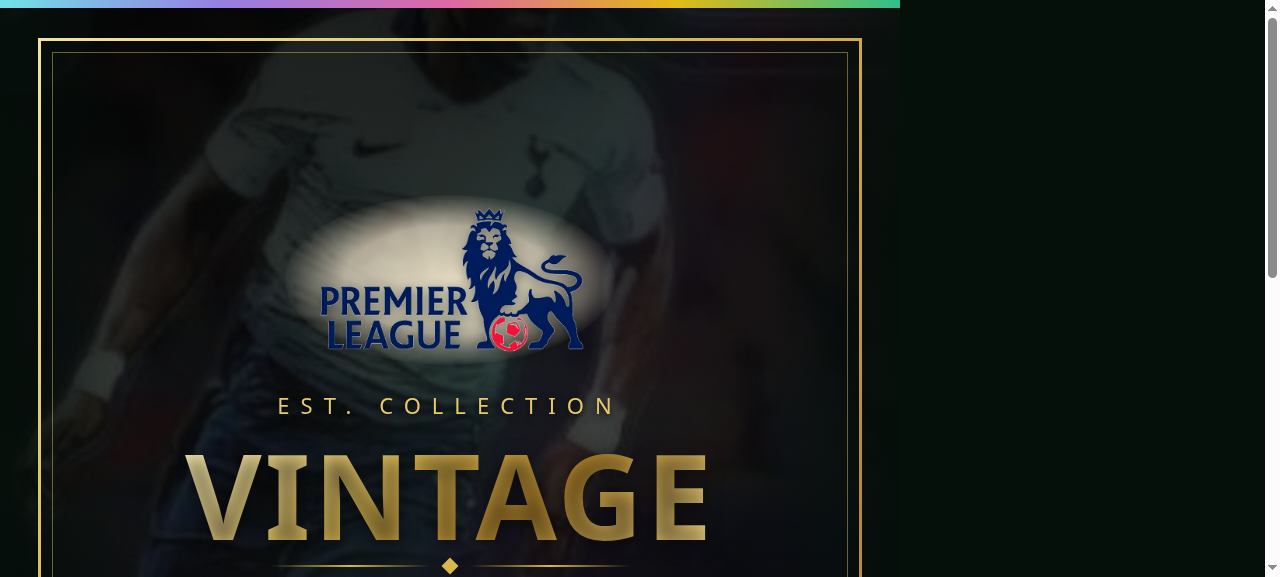
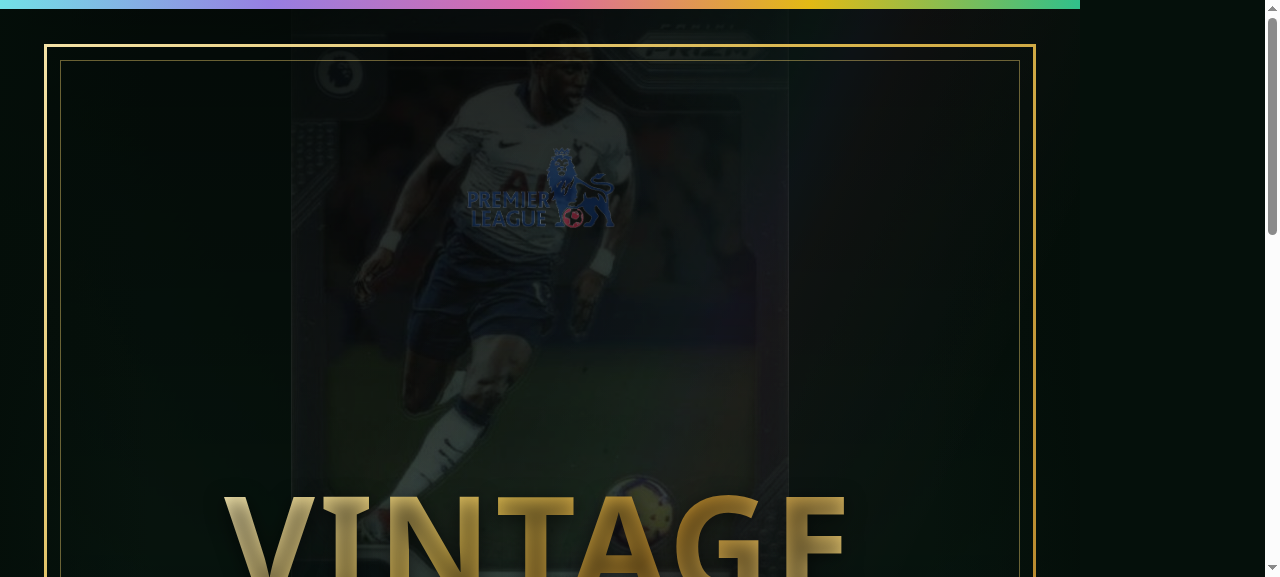
Redesign 3:4: smaller Sissoko/EPL, display all 3 cards, remove EST label

diff --git a/thumbnail.html b/thumbnail.html
@@ -7,125 +7,162 @@
   html,body { background:#05100b; }
   #card {
     position:relative;
-    width:900px; height:1200px;
+    width:1080px; height:1440px;   /* exact 3:4 portrait */
     overflow:hidden;
     font-family:'Helvetica Neue',Arial,sans-serif;
     background:#0a1c14;
   }
 
-  /* ===== BACKGROUND: Sissoko Prizm blended in (kept — user liked it) ===== */
+  /* ===== BACKGROUND CARD PHOTOS (all three, blended) ===== */
   .bg { position:absolute; inset:0; background-size:cover; background-position:center; }
+
+  /* Sissoko Prizm — smaller, upper-center, feathered into bg */
   .bg-prizm {
     background-image:url('s-l1600.jpg');
-    background-position:center 18%;
-    filter:grayscale(12%) contrast(1.05) brightness(0.6) saturate(1.1);
-    transform:scale(1.3);
+    background-position:center top;
+    background-size:auto 48%;            /* smaller player */
+    background-repeat:no-repeat;
+    filter:grayscale(14%) contrast(1.05) brightness(0.62) saturate(1.05);
+    -webkit-mask-image: radial-gradient(52% 40% at 50% 22%, #000 0%, #000 40%, transparent 74%);
+            mask-image: radial-gradient(52% 40% at 50% 22%, #000 0%, #000 40%, transparent 74%);
+    opacity:0.85;
   }
-  /* vintage match scene faded at the very bottom for texture */
+  /* faint vintage MATCH scene texture across the whole bg (very subtle) */
   .bg-match {
     background-image:url('1656900916111.jpg');
     background-position:38% 48%;
-    background-size:190%;
-    filter:sepia(0.92) contrast(1.15) brightness(0.95);
-    -webkit-mask-image: radial-gradient(120% 60% at 50% 100%, #000 0%, #000 22%, transparent 58%);
-            mask-image: radial-gradient(120% 60% at 50% 100%, #000 0%, #000 22%, transparent 58%);
-    opacity:0.5; mix-blend-mode:luminosity;
+    background-size:130%;
+    background-repeat:no-repeat;
+    filter:sepia(0.9) contrast(1.1) brightness(0.9);
+    -webkit-mask-image: radial-gradient(120% 50% at 50% 100%, #000 0%, #000 20%, transparent 55%);
+            mask-image: radial-gradient(120% 50% at 50% 100%, #000 0%, #000 20%, transparent 55%);
+    opacity:0.28; mix-blend-mode:luminosity;
   }
+  .bg-portrait { display:none; }
+
+  /* ===== displayed vintage cards (crisp, like a collection) ===== */
+  .vcards { position:absolute; left:0; right:0; bottom:300px; display:flex; justify-content:center; align-items:center; pointer-events:none; }
+  .vcard { border:4px solid #efe3c6; border-radius:4px;
+    box-shadow:0 12px 32px rgba(0,0,0,0.75), 0 0 0 1px #9c7326;
+    filter:sepia(0.3) contrast(1.06) brightness(1.05);
+    background-repeat:no-repeat; }
+  /* MATCH slab 1755x1080: crop the dark card (x 29%..78%, y 22%..76%) */
+  .vcard.match {
+    width:300px; height:196px; transform:rotate(-5deg) translateX(36px); z-index:1;
+    background-image:url('1656900916111.jpg');
+    background-size:204% auto;
+    background-position:44% 40%;
+  }
+  /* PORTRAIT slab 1080x1713: crop the dark card (x 22%..78%, y 30%..78%) */
+  .vcard.portrait {
+    width:158px; height:250px; transform:rotate(5deg) translateX(-36px); z-index:2;
+    background-image:url('1656900919275.jpg');
+    background-size:178% auto;
+    background-position:50% 47%;
+  }
+  .vcards::after { content:""; position:absolute; inset:-30px;
+    background:radial-gradient(60% 90% at 50% 50%, rgba(217,182,78,0.16), transparent 70%); z-index:0; }
 
   /* ===== TONE OVERLAYS ===== */
   .tone-green { position:absolute; inset:0;
     background:
-      radial-gradient(90% 70% at 50% 32%, rgba(20,70,50,0.5), transparent 70%),
-      linear-gradient(180deg, rgba(6,20,14,0.5) 0%, rgba(6,20,14,0.25) 40%, rgba(4,14,9,0.88) 100%);
+      radial-gradient(90% 55% at 50% 30%, rgba(20,70,50,0.45), transparent 68%),
+      linear-gradient(180deg, rgba(6,20,14,0.45) 0%, rgba(6,20,14,0.2) 42%, rgba(4,14,9,0.55) 100%);
     mix-blend-mode:multiply; }
   .tone-dark { position:absolute; inset:0;
     background:
-      linear-gradient(90deg, rgba(4,14,9,0.9) 0%, rgba(4,14,9,0) 15%, rgba(4,14,9,0) 85%, rgba(4,14,9,0.9) 100%),
-      linear-gradient(180deg, rgba(0,0,0,0.5), rgba(0,0,0,0.12) 32%, rgba(0,0,0,0.62) 100%); }
+      linear-gradient(90deg, rgba(4,14,9,0.9) 0%, rgba(4,14,9,0) 14%, rgba(4,14,9,0) 86%, rgba(4,14,9,0.9) 100%),
+      linear-gradient(180deg, rgba(0,0,0,0.4), rgba(0,0,0,0.05) 34%, rgba(0,0,0,0.35) 100%); }
   .prizm-streak { position:absolute; inset:0;
-    background:linear-gradient(115deg, transparent 32%, rgba(126,249,255,0.09) 46%, rgba(167,139,250,0.11) 50%, rgba(244,114,182,0.09) 54%, transparent 68%);
-    mix-blend-mode:screen; opacity:0.55; }
-  .top-bar { position:absolute; top:0; left:0; right:0; height:8px;
+    background:linear-gradient(115deg, transparent 33%, rgba(126,249,255,0.08) 47%, rgba(167,139,250,0.1) 50%, rgba(244,114,182,0.08) 53%, transparent 67%);
+    mix-blend-mode:screen; opacity:0.5; }
+  .top-bar { position:absolute; top:0; left:0; right:0; height:9px;
     background:linear-gradient(90deg,#7ef9ff,#a78bfa,#f472b6,#facc15,#34d399); opacity:0.9; }
 
   /* ===== GOLD FRAME ===== */
-  .frame { position:absolute; inset:38px; border:3px solid;
+  .frame { position:absolute; inset:44px; border:3px solid;
     border-image:linear-gradient(135deg,#f4e2a6,#d9b64e,#b8892e,#e7c96b) 1; pointer-events:none; }
-  .frame-inner { position:absolute; inset:52px; border:1px solid rgba(231,201,107,0.45); pointer-events:none; }
+  .frame-inner { position:absolute; inset:60px; border:1px solid rgba(231,201,107,0.45); pointer-events:none; }
 
   /* ===== CONTENT ===== */
-  .content { position:absolute; inset:0; display:flex; flex-direction:column; align-items:center; justify-content:center; }
+  .content { position:absolute; inset:0; display:flex; flex-direction:column; align-items:center;
+    justify-content:space-between; padding:140px 0 130px; }
 
-  /* real EPL logo (transparent PNG) on a soft light disc so navy reads crisply */
-  .epl-wrap { width:340px; height:180px; display:flex; align-items:center; justify-content:center; position:relative; }
-  .epl-wrap::before { content:""; position:absolute; width:330px; height:170px;
-    background:radial-gradient(ellipse at center, rgba(244,233,207,0.92), rgba(244,233,207,0.7) 45%, transparent 72%);
-    border-radius:50%; }
-  .epl-wrap img { max-width:94%; max-height:94%; position:relative;
-    filter:contrast(1.08) drop-shadow(0 2px 6px rgba(0,0,0,0.35)); }
+  /* EPL logo — SMALL and blended into the background (no bright disc), low opacity */
+  .epl-wrap { width:170px; height:95px; display:flex; align-items:center; justify-content:center; }
+  .epl-wrap img { max-width:100%; max-height:100%; opacity:0.4;
+    filter:brightness(1.45) saturate(0.85) drop-shadow(0 2px 6px rgba(0,0,0,0.5)); }
 
-  .est { margin-top:20px; color:#e7c96b; font-size:22px; letter-spacing:11px; font-weight:400; text-shadow:0 2px 8px #000; }
+  .mid { display:flex; flex-direction:column; align-items:center; }
 
   .wordmark {
-    margin-top:16px;
-    font-family:Georgia,'Times New Roman',serif; font-weight:bold; font-size:118px; line-height:1; letter-spacing:3px;
+    margin-top:0;
+    font-family:Georgia,'Times New Roman',serif; font-weight:bold; font-size:140px; line-height:1; letter-spacing:4px;
     background:linear-gradient(135deg,#f9edb8,#d9b64e 40%,#b8892e 66%,#f0d987);
     -webkit-background-clip:text; background-clip:text; color:transparent;
-    text-shadow:0 4px 18px rgba(0,0,0,0.5);
+    text-shadow:0 4px 20px rgba(0,0,0,0.55);
   }
-  .rule { display:flex; align-items:center; gap:14px; margin-top:6px; }
-  .rule .line { width:160px; height:2px; background:linear-gradient(90deg,transparent,#d9b64e,transparent); }
-  .rule .dot { width:12px; height:12px; transform:rotate(45deg); background:#d9b64e; }
-  .sub { margin-top:12px; color:#f4e9cf; font-size:30px; letter-spacing:15px; font-weight:600; text-shadow:0 2px 8px #000; }
+  .rule { display:flex; align-items:center; gap:16px; margin-top:10px; }
+  .rule .line { width:190px; height:2px; background:linear-gradient(90deg,transparent,#d9b64e,transparent); }
+  .rule .dot { width:13px; height:13px; transform:rotate(45deg); background:#d9b64e; }
+  .sub { margin-top:14px; color:#f4e9cf; font-size:36px; letter-spacing:18px; font-weight:600; text-shadow:0 2px 8px #000; }
 
-  /* real Tottenham logo (transparent PNG) on a soft light disc */
-  .spurs-wrap { margin-top:30px; width:190px; height:210px; display:flex; align-items:center; justify-content:center; position:relative; }
-  .spurs-wrap::before { content:""; position:absolute; width:180px; height:200px;
-    background:radial-gradient(ellipse at center, rgba(244,233,207,0.9), rgba(244,233,207,0.65) 42%, transparent 70%);
+  /* Tottenham logo on a soft light disc (keep this crisp — it's the dealer's club) */
+  .spurs-wrap { margin-top:20px; width:200px; height:215px; display:flex; align-items:center; justify-content:center; position:relative; }
+  .spurs-wrap::before { content:""; position:absolute; width:200px; height:220px;
+    background:radial-gradient(ellipse at center, rgba(244,233,207,0.88), rgba(244,233,207,0.6) 42%, transparent 70%);
     border-radius:50%; }
-  .spurs-wrap img { max-width:78%; max-height:94%; position:relative;
+  .spurs-wrap img { max-width:76%; max-height:92%; position:relative;
     filter:contrast(1.08) drop-shadow(0 2px 6px rgba(0,0,0,0.35)); }
 
-  .chips { display:flex; gap:18px; margin-top:30px; }
-  .chip { border:2px solid #d9b64e; border-radius:40px; padding:13px 28px;
-    color:#f4e9cf; font-size:23px; font-weight:600; letter-spacing:3px; background:rgba(6,20,14,0.4); text-shadow:0 1px 4px #000; }
+  .bottom { display:flex; flex-direction:column; align-items:center; }
+  .chips { display:flex; gap:22px; }
+  .chip { border:2px solid #d9b64e; border-radius:44px; padding:16px 34px;
+    color:#f4e9cf; font-size:28px; font-weight:600; letter-spacing:3px; background:rgba(6,20,14,0.4); text-shadow:0 1px 4px #000; }
   .chip b { color:#e7c96b; }
 
-  .tagline { margin-top:24px; color:#e7c96b; font-size:22px; letter-spacing:7px; font-weight:400; text-shadow:0 2px 8px #000; }
+  .tagline { margin-top:28px; color:#e7c96b; font-size:26px; letter-spacing:8px; font-weight:400; text-shadow:0 2px 8px #000; }
 </style>
 </head>
 <body>
 <div id="card">
+  <!-- all three real cards blended -->
   <div class="bg bg-prizm"></div>
   <div class="bg bg-match"></div>
+  <div class="bg bg-portrait"></div>
 
   <div class="tone-green"></div>
   <div class="tone-dark"></div>
   <div class="prizm-streak"></div>
   <div class="top-bar"></div>
 
+  <!-- crisp vintage cards displayed like a collection -->
+  <div class="vcards">
+    <div class="vcard portrait"></div>
+    <div class="vcard match"></div>
+  </div>
+
   <div class="frame"></div>
   <div class="frame-inner"></div>
 
   <div class="content">
-    <!-- REAL EPL logo (transparent) -->
     <div class="epl-wrap"><img src="epl_logo.png" alt="EPL"></div>
 
-    <div class="est">EST. COLLECTION</div>
-
-    <div class="wordmark">VINTAGE</div>
-    <div class="rule"><span class="line"></span><span class="dot"></span><span class="line"></span></div>
-    <div class="sub">SPORTS CARDS</div>
-
-    <!-- REAL Tottenham logo (transparent) -->
-    <div class="spurs-wrap"><img src="spurs_logo.png" alt="Tottenham"></div>
-
-    <div class="chips">
-      <div class="chip">EPL</div>
-      <div class="chip">PANINI <b>PRIZM</b></div>
-      <div class="chip">VINTAGE</div>
+    <div class="mid">
+      <div class="wordmark">VINTAGE</div>
+      <div class="rule"><span class="line"></span><span class="dot"></span><span class="line"></span></div>
+      <div class="sub">SPORTS CARDS</div>
+      <div class="spurs-wrap"><img src="spurs_logo.png" alt="Tottenham"></div>
     </div>
-    <div class="tagline">VINTAGE · PRIZM · TOBACCO CARDS</div>
+
+    <div class="bottom">
+      <div class="chips">
+        <div class="chip">EPL</div>
+        <div class="chip">PANINI <b>PRIZM</b></div>
+        <div class="chip">VINTAGE</div>
+      </div>
+      <div class="tagline">VINTAGE · PRIZM · TOBACCO CARDS</div>
+    </div>
   </div>
 </div>
 </body>

diff --git a/preview.html b/preview.html
@@ -1,6 +1,6 @@
 <!doctype html>
 <html><head><meta charset="utf-8">
 <style>html,body{margin:0;background:#05100b}
-iframe{width:900px;height:1200px;border:0;transform:scale(0.5);transform-origin:top left}
+iframe{width:1080px;height:1440px;border:0;transform:scale(0.4167);transform-origin:top left}
 .wrap{width:450px;height:600px;overflow:hidden}</style></head>
 <body><div class="wrap"><iframe src="thumbnail.html?p=1"></iframe></div></body></html>
